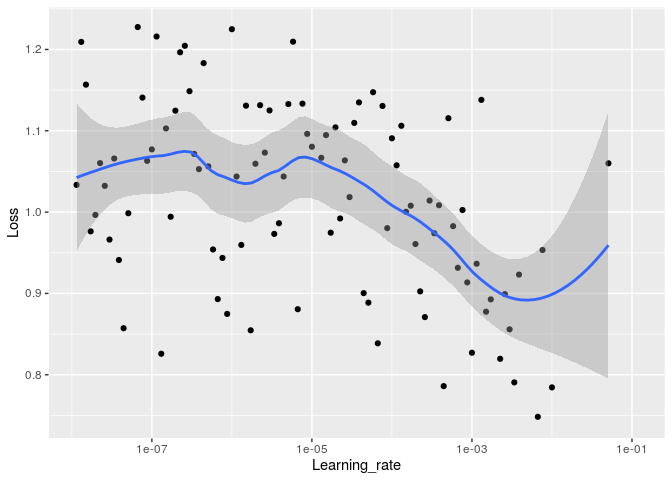
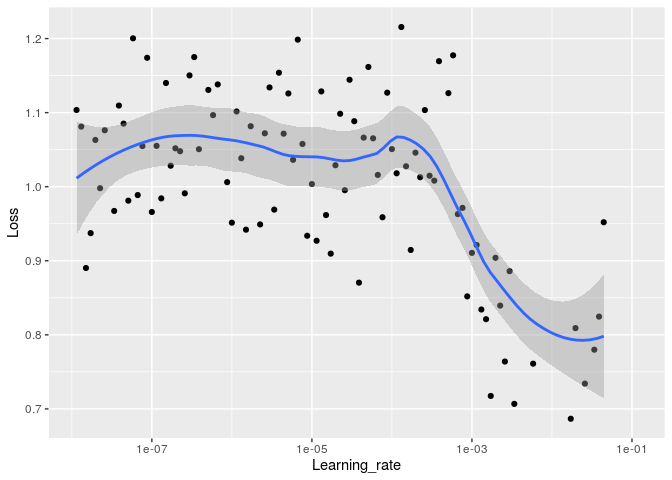
Unfreezing of the model, learning rate finder for it

diff --git a/resnet50-lr-finder-and-cyclic-lr-with-r.md b/resnet50-lr-finder-and-cyclic-lr-with-r.md
@@ -37,14 +37,14 @@ policy.
 library(tidyverse)
 ```
 
-    ## ── Attaching packages ──────────────────────────────────────────────────────────────────────────────────────────────────────── tidyverse 1.3.0 ──
+    ## ── Attaching packages ─────────────────────────────────────────────────────────────────────────────────────────────────────── tidyverse 1.3.0 ──
 
     ## ✓ ggplot2 3.3.0     ✓ purrr   0.3.4
     ## ✓ tibble  3.0.0     ✓ dplyr   0.8.5
     ## ✓ tidyr   1.0.2     ✓ stringr 1.4.0
     ## ✓ readr   1.3.1     ✓ forcats 0.5.0
 
-    ## ── Conflicts ─────────────────────────────────────────────────────────────────────────────────────────────────────────── tidyverse_conflicts() ──
+    ## ── Conflicts ────────────────────────────────────────────────────────────────────────────────────────────────────────── tidyverse_conflicts() ──
     ## x dplyr::filter() masks stats::filter()
     ## x dplyr::lag()    masks stats::lag()
 
@@ -287,8 +287,8 @@ str(batch)
 ```
 
     ## List of 2
-    ##  $ : num [1:32, 1:224, 1:224, 1:3] 76 52.8 110 135 48.1 ...
-    ##  $ : num [1:32, 1:4] 0 0 0 1 0 0 0 0 1 0 ...
+    ##  $ : num [1:32, 1:224, 1:224, 1:3] 129.4 141.6 254 94.8 70.4 ...
+    ##  $ : num [1:32, 1:4] 1 1 0 0 0 1 0 0 1 0 ...
 
 # Import pre-trained model
 
@@ -332,7 +332,8 @@ fast\_ai](https://docs.fast.ai/vision.learner.html#create_head). Since
 there is a “funny” pooling operation, The AdaptiveConcatPool2d (adaptive
 average pooling and adaptive max pooling), I will use a max pooling,
 because we are most interresting to know if there is a rust or scab,
-that something on “average”.
+that something on “average”. After testing, adding a
+layer\_global\_average\_pooling\_2d() indeed gave poor results.
 
 One of the most important aspect of deep learning is to set up a good
 loss function and last layer activation. Since it is a **multiclass**
@@ -469,12 +470,12 @@ head(data)
 ```
 
     ##   Learning_rate      Loss
-    ## 1  1.145048e-08 1.0334737
-    ## 2  1.311134e-08 1.2092899
-    ## 3  1.501311e-08 1.1567343
-    ## 4  1.719072e-08 0.9763259
-    ## 5  1.968419e-08 0.9965426
-    ## 6  2.253934e-08 1.0602639
+    ## 1  1.145048e-08 1.1035540
+    ## 2  1.311134e-08 1.0811859
+    ## 3  1.501311e-08 0.8902329
+    ## 4  1.719072e-08 0.9373264
+    ## 5  1.968419e-08 1.0631230
+    ## 6  2.253934e-08 0.9979775
 
 Learning rate vs loss
 :
@@ -645,17 +646,23 @@ model <- keras_model_sequential() %>%
         layer_dense(units=4, activation="sigmoid")
 ```
 
+#### Better metric
+
+Addition of the metric categorical\_accuracy to be sure of the accuracy
+plotted.
+
 ``` r
 model %>% compile(
     optimizer=optimizer_rmsprop(lr=1e-5),
     loss="binary_crossentropy",
-    metrics='accuracy'
+    #metrics = c("categorical_accuracy")
+    metrics = "accuracy"
 )
 ```
 
 ``` r
 callback_list<-list(callback_lr, #callback to update lr
-    callback_model_checkpoint(filepath = "raw_model.h5", monitor = "val_acc", save_best_only = TRUE ))
+    callback_model_checkpoint(filepath = "raw_model.h5", monitor = "val_acc", save_best_only = TRUE))
 ```
 
     ## Warning in callback_model_checkpoint(filepath = "raw_model.h5", monitor =
@@ -697,6 +704,129 @@ attempt :
 
 ![Val loss and Train loss for a maximum learning rate of
 5e-3](resnet50-lr-finder-and-cyclic-lr-with-r_files/figure-gfm/maxlr5e3.png)
+
+## Fine tuning
+
+### Unfreezing the model
+
+Following line to got the name of the layer we want to unfreeze
+(res5a\_branch2a)
+
+``` r
+#summary(conv_base)
+```
+
+[See this link to
+see](https://keras.rstudio.com/reference/freeze_layers.html) that it
+works to unfreeze conv\_base independently of the sequential
+    model.
+
+``` r
+unfreeze_weights(conv_base, from="res5a_branch2a")
+```
+
+``` r
+summary(model)
+```
+
+    ## ________________________________________________________________________________
+    ## Layer (type)                        Output Shape                    Param #     
+    ## ================================================================================
+    ## resnet50 (Model)                    (None, 7, 7, 2048)              23587712    
+    ## ________________________________________________________________________________
+    ## global_max_pooling2d_2 (GlobalMaxPo (None, 2048)                    0           
+    ## ________________________________________________________________________________
+    ## batch_normalization_2 (BatchNormali (None, 2048)                    8192        
+    ## ________________________________________________________________________________
+    ## dropout_2 (Dropout)                 (None, 2048)                    0           
+    ## ________________________________________________________________________________
+    ## dense_2 (Dense)                     (None, 4)                       8196        
+    ## ================================================================================
+    ## Total params: 8,628,100
+    ## Trainable params: 12,292
+    ## Non-trainable params: 8,615,808
+    ## ________________________________________________________________________________
+
+#### Learning rate finder for unfreezed model
+
+``` r
+callback_list = list(callback_lr, callback_logger, callback_log_acc_lr)
+```
+
+Here I create a copy for the lr\_finder, to spare the real model.
+
+``` r
+model_lr_finder<-model
+```
+
+``` r
+lr0<-1e-8
+lr_max<-0.1
+
+#n_iteration :
+n<-120
+q<-(lr_max/lr0)^(1/(n-1))
+i<-1:n
+l_rate<-lr0*(q^i)
+```
+
+``` r
+i<-1:n
+l_rate<-lr0*(q^i)
+```
+
+``` r
+history <- model_lr_finder %>% fit_generator(
+    train_generator,
+    steps_per_epoch=n,
+    epochs = 1,
+    callbacks = callback_list,
+    validation_data = validation_generator,
+    validation_step=30
+)
+```
+
+``` r
+data <- data.frame("Learning_rate" = lr_hist, "Loss" = callback_log_acc_lr$loss)
+head(data)
+```
+
+    ##   Learning_rate      Loss
+    ## 1  1.145048e-08 1.1035540
+    ## 2  1.311134e-08 1.0811859
+    ## 3  1.501311e-08 0.8902329
+    ## 4  1.719072e-08 0.9373264
+    ## 5  1.968419e-08 1.0631230
+    ## 6  2.253934e-08 0.9979775
+
+Learning rate vs loss
+:
+
+``` r
+ggplot(data, aes(x=Learning_rate, y=Loss)) + scale_x_log10() + geom_point() +  geom_smooth(span = 0.5)
+```
+
+    ## `geom_smooth()` using method = 'loess' and formula 'y ~ x'
+
+![](resnet50-lr-finder-and-cyclic-lr-with-r_files/figure-gfm/unnamed-chunk-61-1.png)<!-- -->
+
+More centered on the moment when the slope goes down :
+
+``` r
+limits<-quantile(data$Loss, probs = c(0.10, 0.90))
+ggplot(data, aes(x=Learning_rate, y=Loss)) + scale_x_log10() + 
+scale_y_continuous(name="Loss", limits=limits)+ geom_point() +  geom_smooth(span = 0.5)
+```
+
+    ## `geom_smooth()` using method = 'loess' and formula 'y ~ x'
+
+    ## Warning: Removed 48 rows containing non-finite values (stat_smooth).
+
+    ## Warning: Removed 48 rows containing missing values (geom_point).
+
+![](resnet50-lr-finder-and-cyclic-lr-with-r_files/figure-gfm/unnamed-chunk-62-1.png)<!-- -->
+
+#### Fine tuning of the model
 
 # Submit
 
